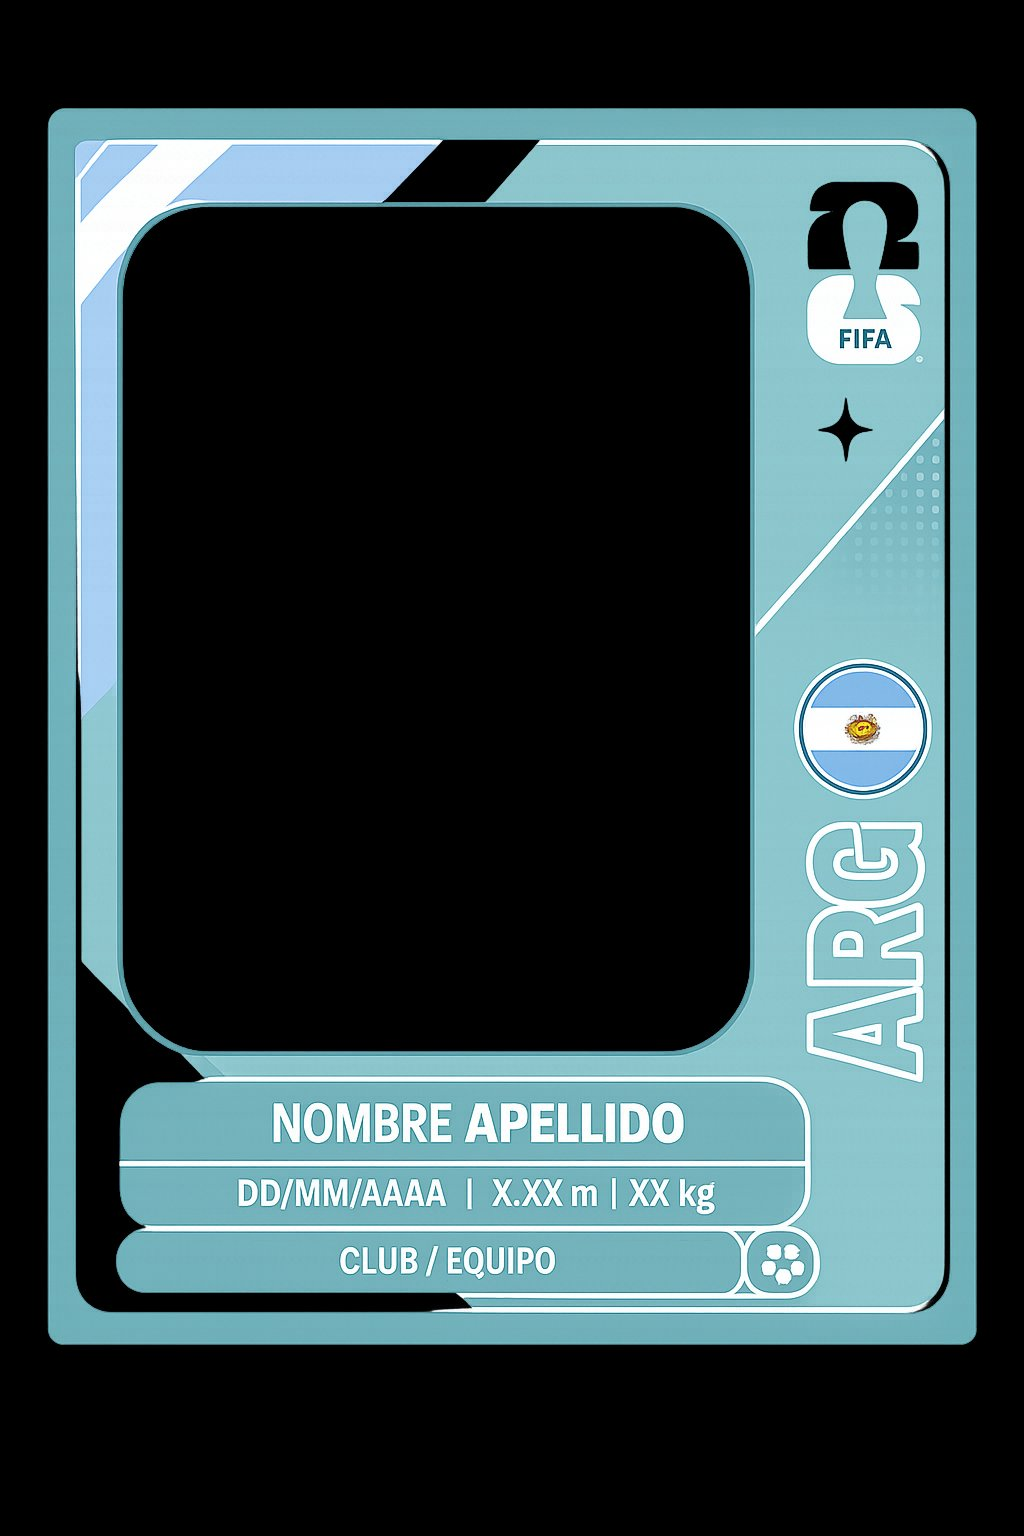
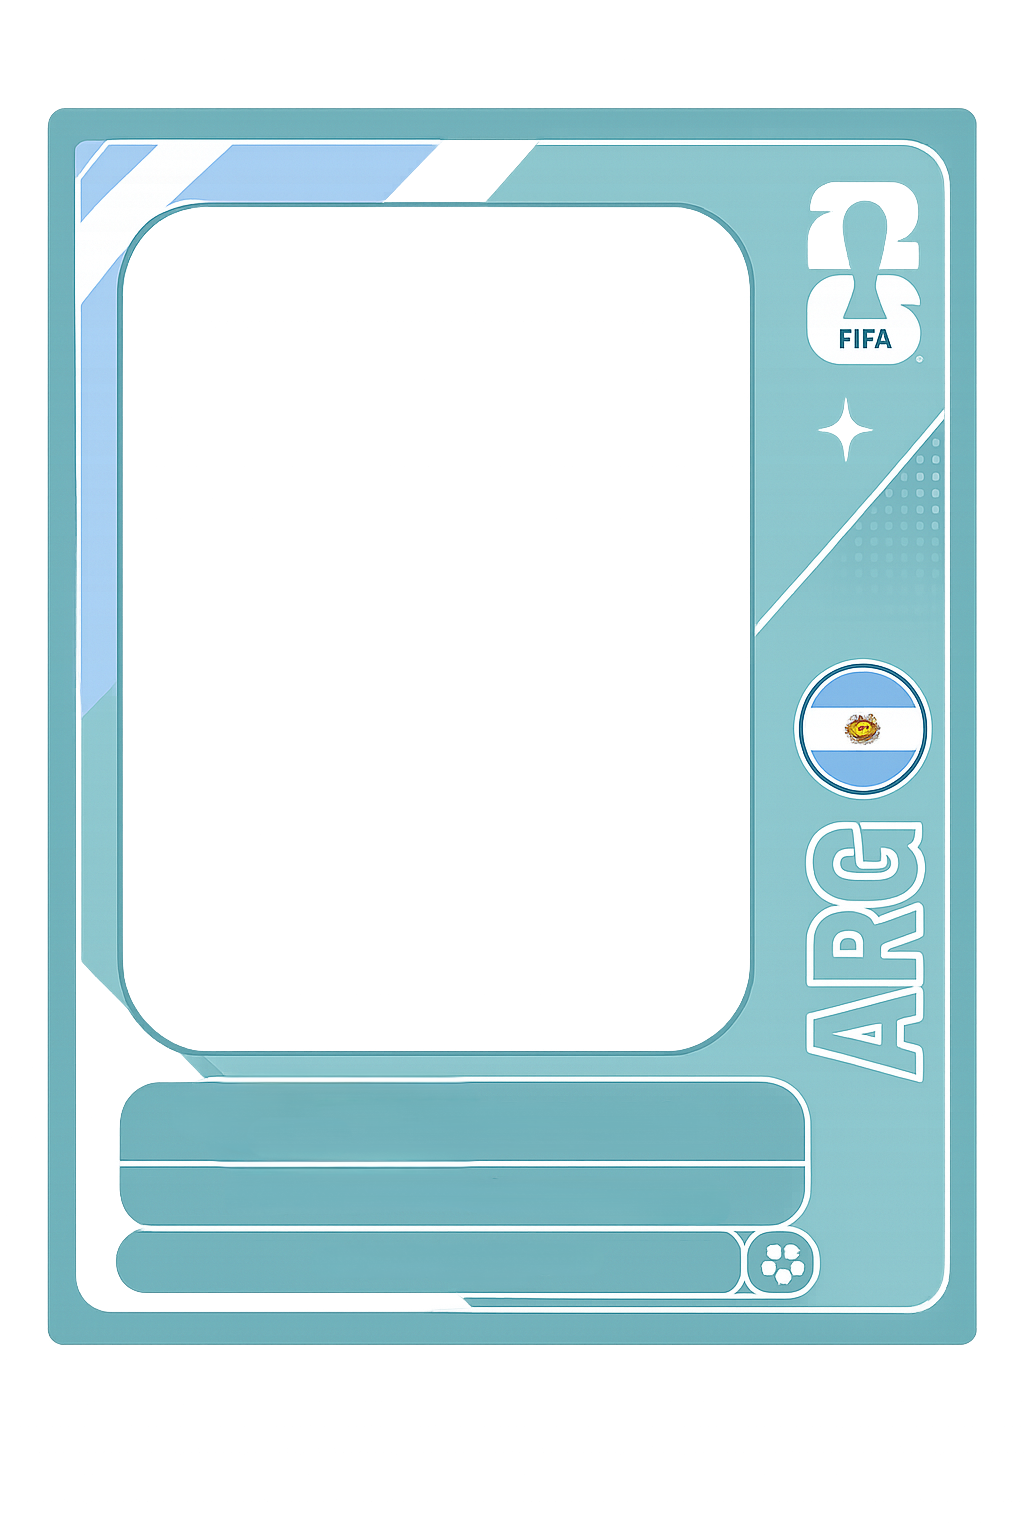
figurita con marco mundial 2

diff --git a/src/App.jsx b/src/App.jsx
@@ -75,14 +75,12 @@ function FiguritaSVG({ jugador, size=280, onClick }) {
   const initials = `${jugador.nombre[0]}${jugador.apellido?.[0]||""}`;
   const color = jugador.color||"#4a90d4";
 
-  // PNG 1024x1536 → viewBox 300x450
-  // Hueco negro medido px: left=123 top=50 right=949 bottom=1051
-  // En %: x=12% y=3.3% w=81.3% h=65.1%
-  // En viewBox 300x450: x=36 y=15 w=244 h=293
-  // Filas panel inferior medidas:
-  // Fila1 centro: ~72% de 450 = y=324
-  // Fila2 centro: ~76% de 450 = y=342
-  // Fila3 centro: ~80% de 450 = y=360
+  // PNG 1024x1536, viewBox 300x450
+  // Hueco negro: left=123(12%) top=50(3.3%) right=949(92.7%) bottom=1051(68.4%)
+  // En viewBox: x=36 y=15 w=242 h=294
+  // Fila1 panel: 68.5%-84.2% → y=308 h=71 color=#72b1ba
+  // Fila2 panel: 85.5%-87.6% → y=385 h=10
+  // Fila3: ~88-92% → y=396 h=18
 
   return (
     <svg width={size} height={size*1.5} viewBox="0 0 300 450" onClick={onClick}
@@ -93,44 +91,52 @@ function FiguritaSVG({ jugador, size=280, onClick }) {
           <stop offset="100%" stopColor={color} stopOpacity="0.7"/>
         </radialGradient>
         <clipPath id={`foto-${jugador.id}`}>
-          <rect x="36" y="15" width="244" height="293" rx="14"/>
+          <rect x="36" y="15" width="242" height="294" rx="16"/>
         </clipPath>
       </defs>
 
       {/* Foto o iniciales DEBAJO del marco */}
       {jugador.foto ? (
-        <image href={jugador.foto} x="36" y="15" width="244" height="293"
+        <image href={jugador.foto} x="36" y="15" width="242" height="294"
           clipPath={`url(#foto-${jugador.id})`} preserveAspectRatio="xMidYMid slice"/>
       ) : (
         <g clipPath={`url(#foto-${jugador.id})`}>
-          <rect x="36" y="15" width="244" height="293" fill={`url(#av-${jugador.id})`}/>
-          <text x="158" y="178" fontFamily="'Outfit',sans-serif" fontSize="72" fontWeight="900"
+          <rect x="36" y="15" width="242" height="294" fill={`url(#av-${jugador.id})`}/>
+          <text x="157" y="175" fontFamily="'Outfit',sans-serif" fontSize="72" fontWeight="900"
             fill="rgba(255,255,255,0.95)" textAnchor="middle">{initials}</text>
         </g>
       )}
 
-      {/* Marco PNG encima — tapa los bordes de la foto */}
+      {/* Marco PNG encima */}
       <image href="/marco.png" x="0" y="0" width="300" height="450" preserveAspectRatio="xMidYMid meet"/>
 
-      {/* Media — arriba izquierda sobre el marco */}
-      <text x="44" y="28" fontFamily="'Bebas Neue',sans-serif" fontSize="20"
+      {/* Tapar texto del PNG con rectángulos del mismo color teal */}
+      {/* Fila 1 grande */}
+      <rect x="15" y="308" width="218" height="71" rx="8" fill="#72b1ba"/>
+      {/* Fila 2 */}
+      <rect x="15" y="383" width="218" height="20" rx="5" fill="#72b1ba"/>
+      {/* Fila 3 */}
+      <rect x="15" y="406" width="218" height="22" rx="5" fill="#72b1ba"/>
+
+      {/* Media arriba izquierda */}
+      <text x="44" y="30" fontFamily="'Bebas Neue',sans-serif" fontSize="22"
         fill="white" textAnchor="middle" fontWeight="900">{media}</text>
 
-      {/* Fila 1 — NOMBRE APELLIDO */}
-      <text x="148" y="324" fontFamily="'Outfit',sans-serif" fontSize="13"
+      {/* Nombre + Apellido en fila 1 */}
+      <text x="113" y="349" fontFamily="'Outfit',sans-serif" fontSize="14"
         fill="white" textAnchor="middle">
         <tspan fontWeight="300">{jugador.nombre.toUpperCase()} </tspan>
         <tspan fontWeight="900">{jugador.apellido?.toUpperCase()}</tspan>
       </text>
 
-      {/* Fila 2 — Stats */}
-      <text x="148" y="344" fontFamily="'Outfit',sans-serif" fontSize="8.5"
+      {/* Stats en fila 2 */}
+      <text x="113" y="397" fontFamily="'Outfit',sans-serif" fontSize="7.5"
         fill="white" textAnchor="middle">
-        {`VEL ${jugador.stats?.velocidad||0} | PAS ${jugador.stats?.pase||0} | DEF ${jugador.stats?.defensa||0} | TIR ${jugador.stats?.tiro||0} | TEC ${jugador.stats?.tecnica||0} | RES ${jugador.stats?.resistencia||0}`}
+        {`VEL ${jugador.stats?.velocidad||0} | PAS ${jugador.stats?.pase||0} | DEF ${jugador.stats?.defensa||0} | TIR ${jugador.stats?.tiro||0} | TEC ${jugador.stats?.tecnica||0}`}
       </text>
 
-      {/* Fila 3 — Club */}
-      <text x="140" y="363" fontFamily="'Outfit',sans-serif" fontSize="11" fontWeight="700"
+      {/* Club en fila 3 */}
+      <text x="105" y="421" fontFamily="'Outfit',sans-serif" fontSize="11" fontWeight="700"
         fill="white" textAnchor="middle" letterSpacing="1">
         AL-KOLIKO FC
       </text>
